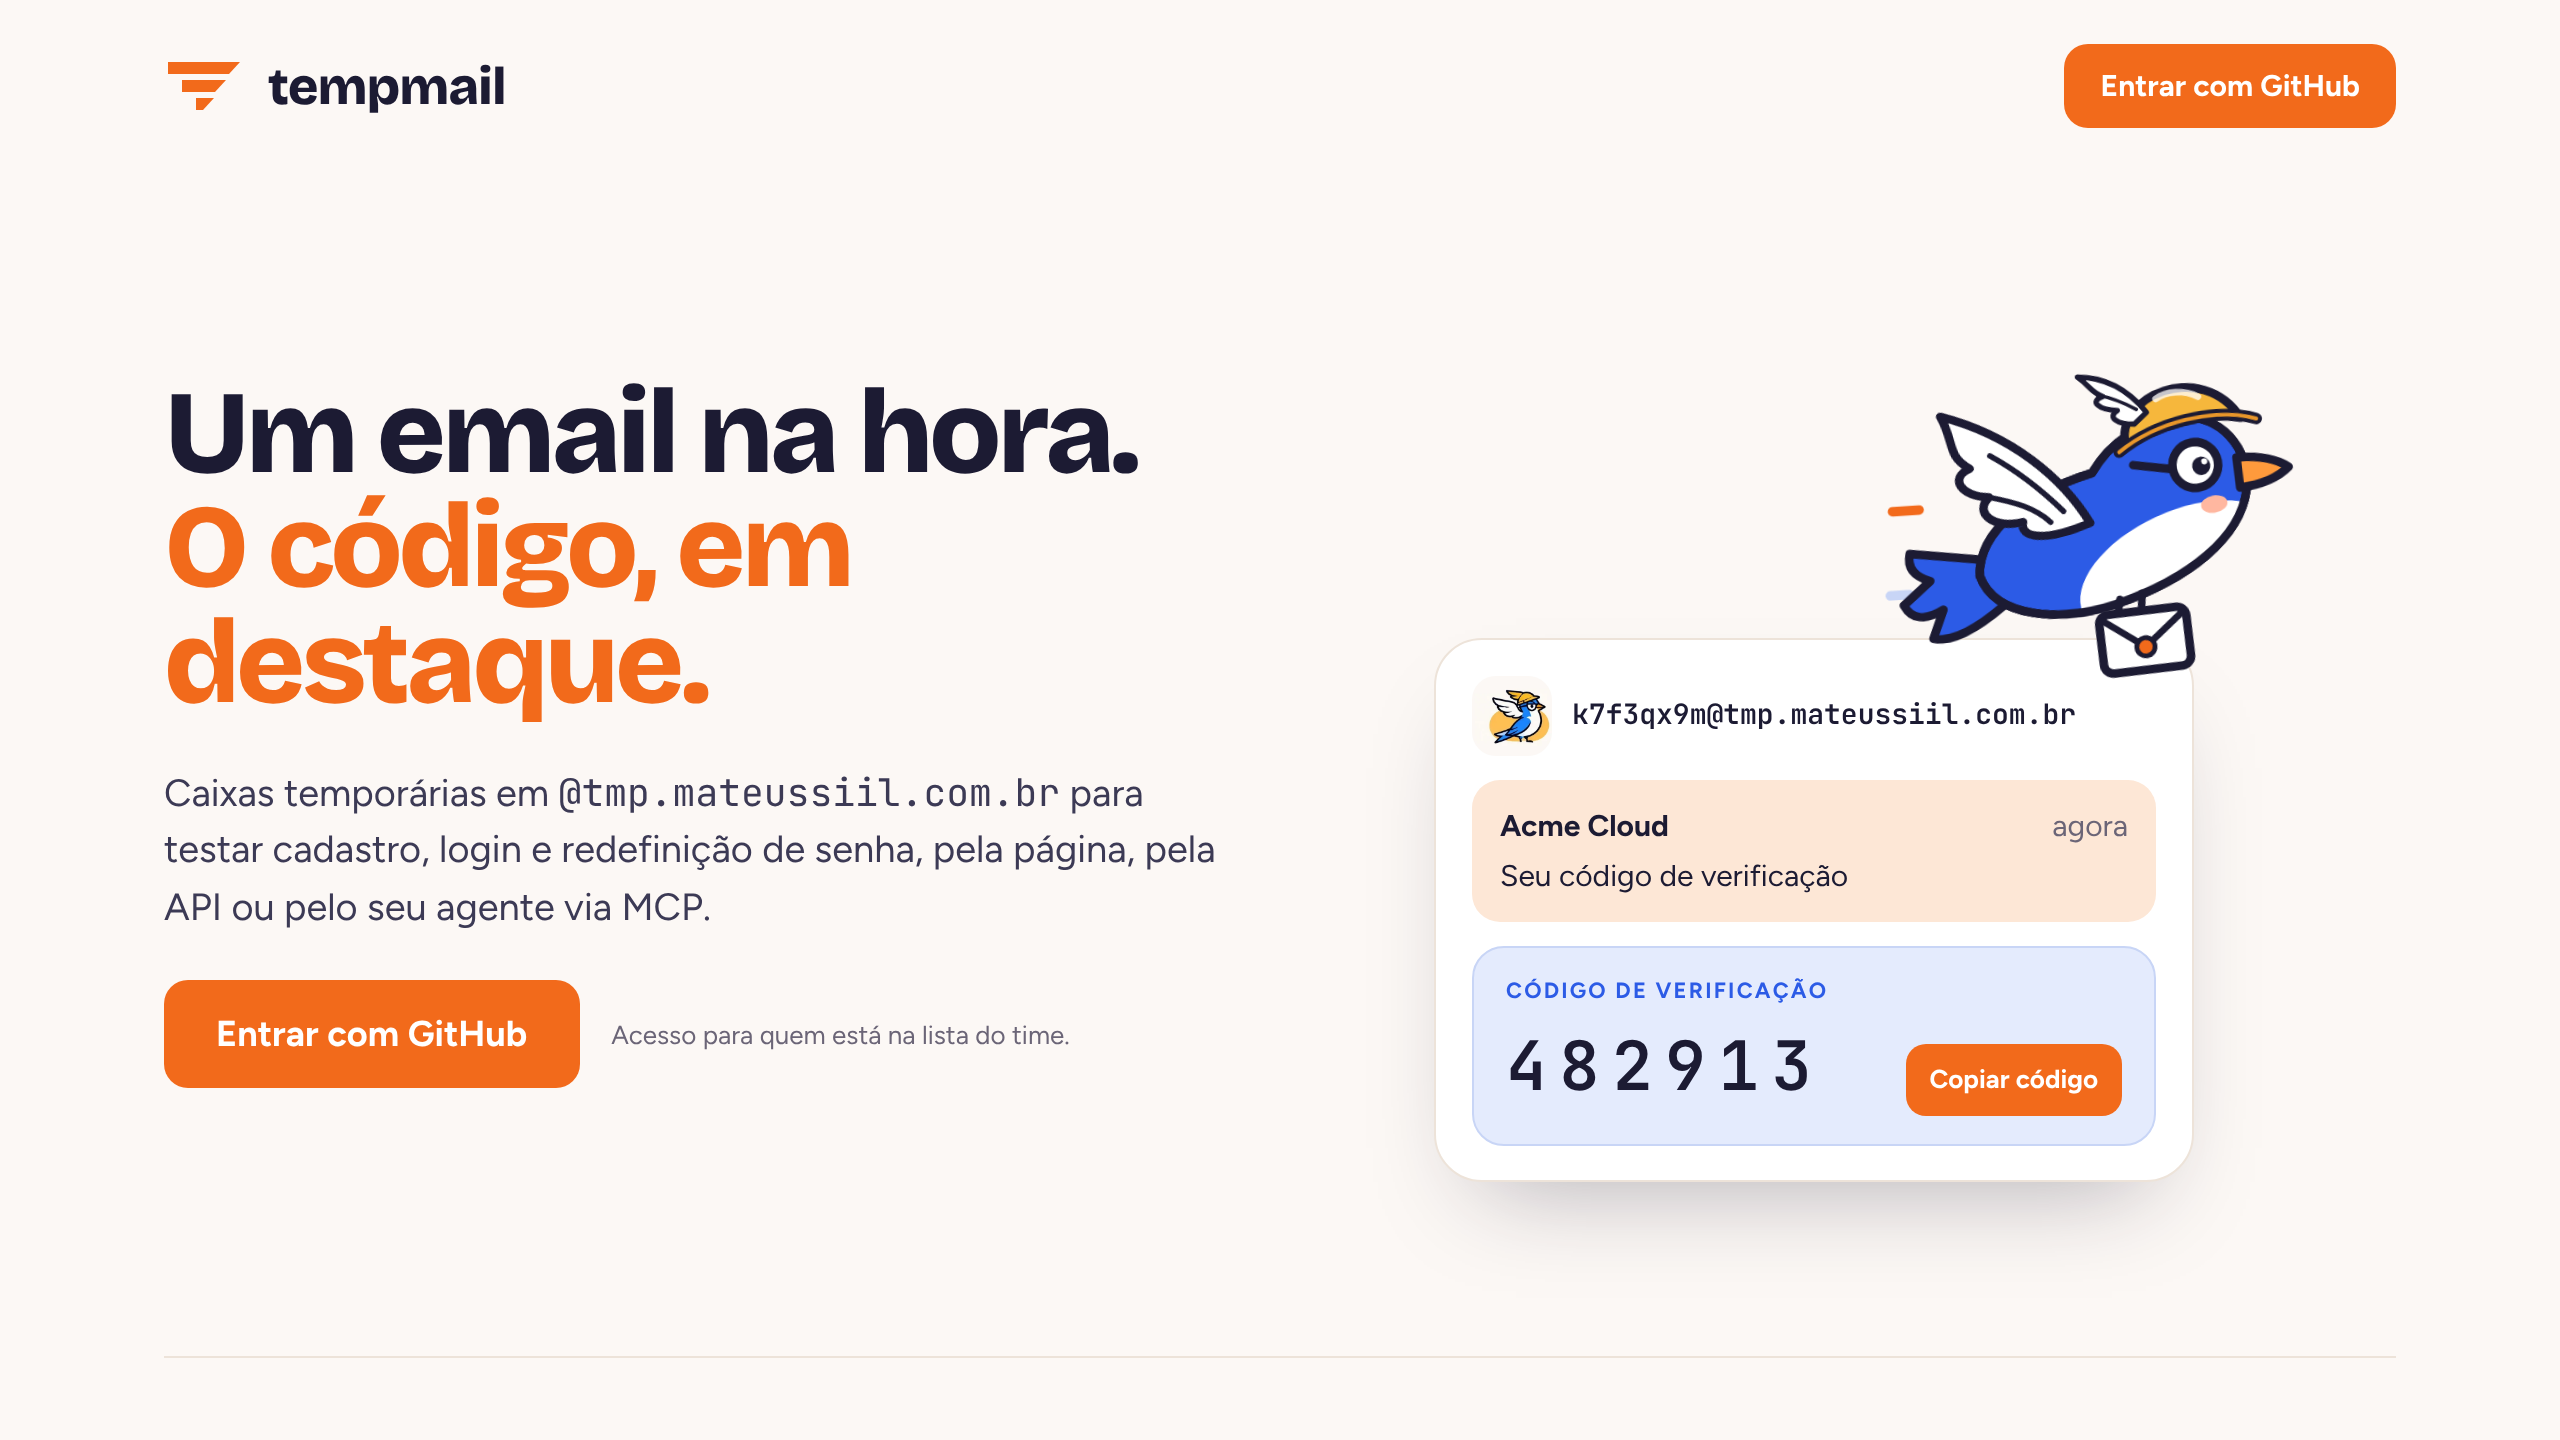
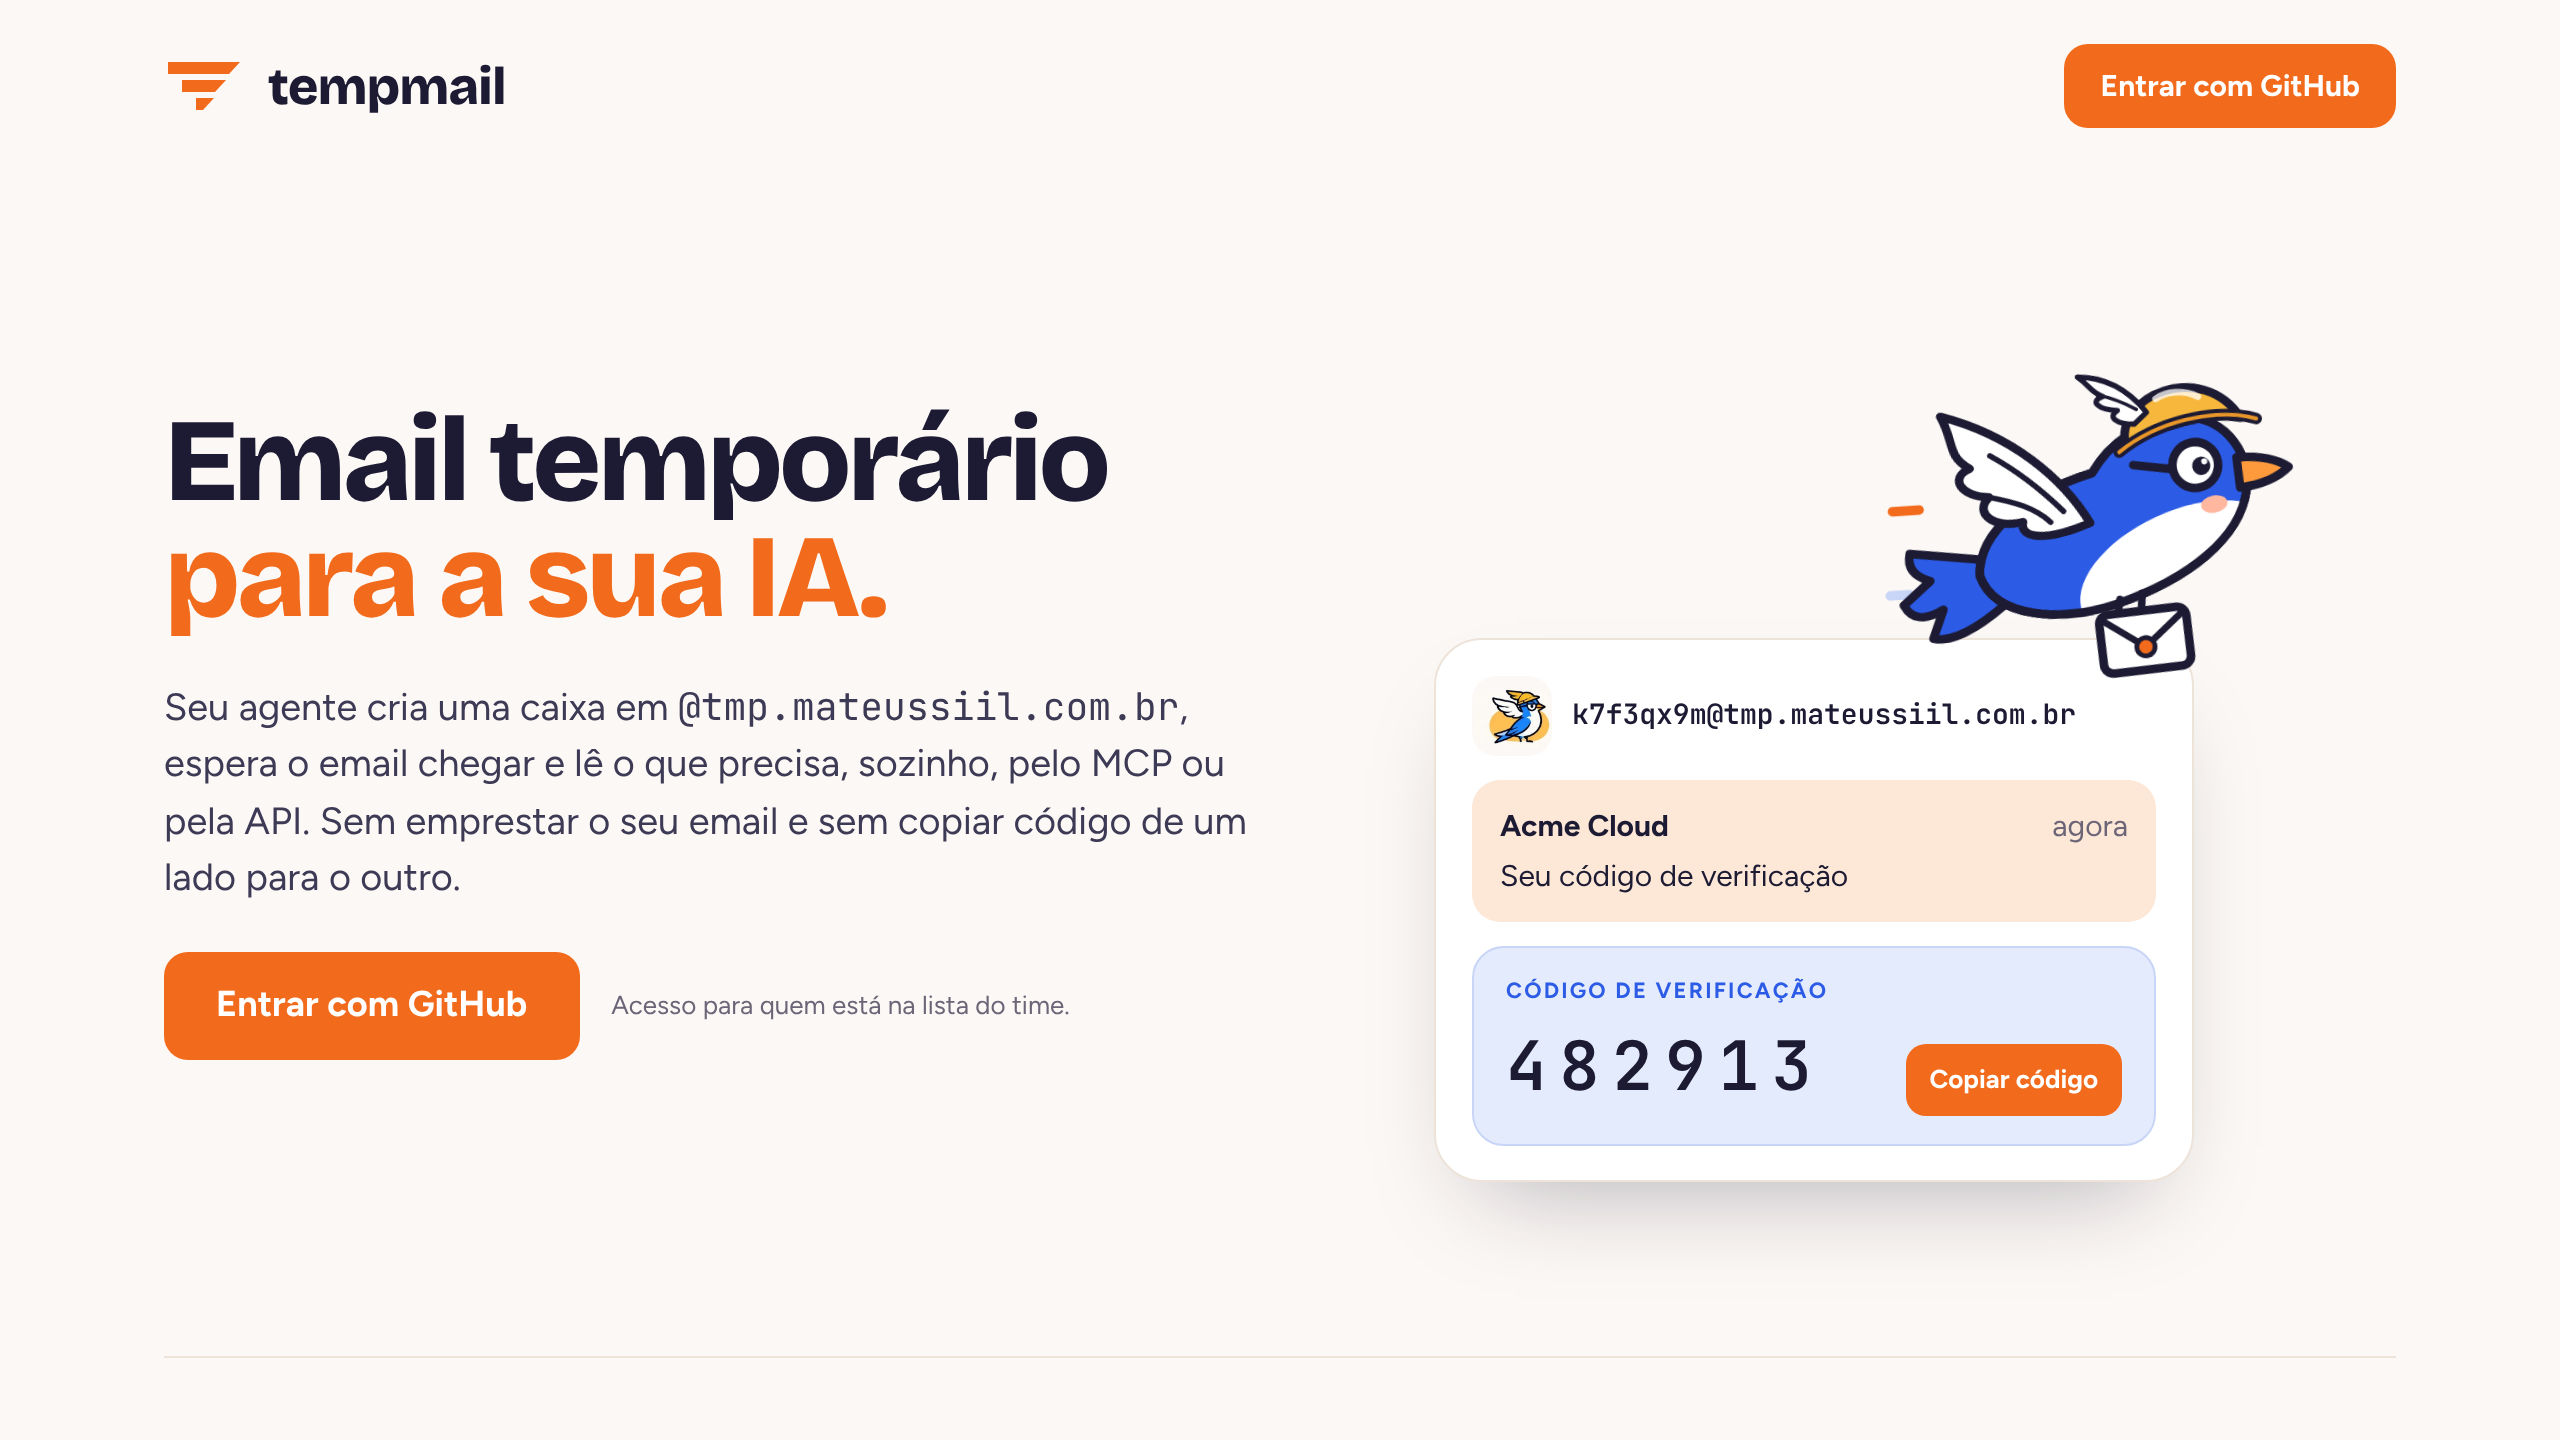
Landing com a IA no centro: email temporário de fácil acesso para agentes
- Hero: "Email temporário para a sua IA." O agente cria a caixa, espera o
  email e lê sozinho, pelo MCP ou pela API.
- "Como o agente usa": conectar (OAuth ou Chave de API), create_inbox,
  wait_for_email e extract_code.
- Cadastro, login e testes ponta a ponta viram casos de uso ("Para que a IA
  usa"), não a proposta.
- Descrição da página, README e CONTEXT com o mesmo posicionamento.

Claude-Session: https://claude.ai/code/session_013yhem54AWrN91AskNKcYQx

Changed region(s): [[0.0625, 0.25, 0.5, 0.7812], [0.25, 0.6875, 0.4062, 0.75]]

diff --git a/src/modules/membership/ui/LandingPage.tsx b/src/modules/membership/ui/LandingPage.tsx
@@ -16,6 +16,8 @@ type LandingPageProps = {
 
 /**
  * A página de quem ainda não entrou: o que o tempmail faz e a porta de entrada.
+ * A proposta é email temporário de fácil acesso para IA; cadastro, login e
+ * testes são usos disso, não o centro.
  * O acesso continua só para quem está na lista do time.
  */
 export function LandingPage({ mailDomain, ttlHours, maxActiveInboxes, mcpUrl, signInButton }: LandingPageProps) {
@@ -33,13 +35,14 @@ export function LandingPage({ mailDomain, ttlHours, maxActiveInboxes, mcpUrl, si
         <section className="landing-hero" aria-labelledby="landing-title">
           <div className="landing-hero-text">
             <h1 id="landing-title" className="landing-title">
-              <span className="landing-title-line">Um email na hora.</span>
+              <span className="landing-title-line">Email temporário</span>
               <br />
-              <span className="landing-title-accent">O código, em destaque.</span>
+              <span className="landing-title-accent">para a sua IA.</span>
             </h1>
             <p className="landing-lede">
-              Caixas temporárias em <span className="mono">@{mailDomain}</span> para testar cadastro, login e
-              redefinição de senha, pela página, pela API ou pelo seu agente via MCP.
+              Seu agente cria uma caixa em <span className="mono">@{mailDomain}</span>, espera o email chegar e
+              lê o que precisa, sozinho, pelo MCP ou pela API. Sem emprestar o seu email e sem copiar código de
+              um lado para o outro.
             </p>
             <div className="landing-cta">
               {signInButton}
@@ -47,7 +50,7 @@ export function LandingPage({ mailDomain, ttlHours, maxActiveInboxes, mcpUrl, si
             </div>
           </div>
 
-          <figure className="landing-demo" aria-label="Exemplo: um código de verificação chegando numa caixa">
+          <figure className="landing-demo" aria-label="Exemplo: um código de verificação chegando na caixa do agente">
             <HermesWhistle />
             <div className="demo-card">
               <div className="demo-address">
@@ -74,20 +77,28 @@ export function LandingPage({ mailDomain, ttlHours, maxActiveInboxes, mcpUrl, si
 
         <section className="landing-section" aria-labelledby="como-funciona">
           <h2 id="como-funciona" className="landing-h2">
-            Como funciona
+            Como o agente usa
           </h2>
           <ol className="landing-steps">
             <li>
-              <strong>Crie uma caixa</strong>
-              <span>Com nome escolhido, como <span className="mono">teste-pix</span>, ou aleatório.</span>
+              <strong>Conecte uma vez</strong>
+              <span>
+                O claude.ai entra por OAuth. Claude Code, Codex, Cursor e outros clientes MCP usam uma Chave de API.
+              </span>
             </li>
             <li>
-              <strong>Use o endereço</strong>
-              <span>No cadastro, no login ou no fluxo que você está testando.</span>
+              <strong>Ele cria a caixa</strong>
+              <span>
+                <span className="mono">create_inbox</span> devolve um endereço na hora, com nome escolhido ou
+                aleatório.
+              </span>
             </li>
             <li>
-              <strong>Copie o código</strong>
-              <span>O email aparece em segundos, com o código de verificação separado do resto.</span>
+              <strong>Ele espera e lê</strong>
+              <span>
+                <span className="mono">wait_for_email</span> segura até o email chegar, e{" "}
+                <span className="mono">extract_code</span> separa o código do resto.
+              </span>
             </li>
           </ol>
         </section>
@@ -95,15 +106,15 @@ export function LandingPage({ mailDomain, ttlHours, maxActiveInboxes, mcpUrl, si
         <section className="landing-section landing-agents" aria-labelledby="para-agentes">
           <div>
             <h2 id="para-agentes" className="landing-h2">
-              Para scripts e agentes
+              Conecte em um minuto
             </h2>
             <p>
-              Tudo o que a página faz também está na API REST e no servidor MCP. Um agente cria a caixa, faz o
-              cadastro e espera o código sozinho, sem você copiar nada.
+              Um comando e o seu agente ganha as ferramentas de email. Ele cria a caixa, usa o endereço e espera a
+              resposta sem você no meio.
             </p>
             <p className="muted small">
-              Cada pessoa cria as suas Chaves de API depois de entrar. Claude Code, Codex, Cursor e outros clientes
-              MCP têm o passo a passo pronto. O claude.ai conecta por OAuth.
+              Cada pessoa cria as suas Chaves de API depois de entrar, com o passo a passo de cada cliente. Tudo o que
+              o MCP faz também está na API REST, para scripts e testes.
             </p>
           </div>
           <pre className="landing-code" aria-label="Exemplo de uso com o Claude Code">
@@ -120,6 +131,27 @@ export function LandingPage({ mailDomain, ttlHours, maxActiveInboxes, mcpUrl, si
               {"\n"}extract_code    → <span className="code-accent">482913</span>
             </code>
           </pre>
+        </section>
+
+        <section className="landing-section" aria-labelledby="usos">
+          <h2 id="usos" className="landing-h2">
+            Para que a IA usa
+          </h2>
+          <dl className="landing-rules">
+            <div>
+              <dt>Cadastros e logins</dt>
+              <dd>O agente se cadastra num serviço e confirma o código ou o link de acesso sem pedir ajuda.</dd>
+            </div>
+            <div>
+              <dt>Testes ponta a ponta</dt>
+              <dd>Cada execução ganha um endereço novo. O teste espera o email e segue o fluxo.</dd>
+            </div>
+            <div>
+              <dt>Qualquer fluxo com email</dt>
+              <dd>Convites, confirmações, recibos e anexos: o agente recebe e lê o conteúdo.</dd>
+            </div>
+          </dl>
+          <p className="muted small">E quando for você, a página mostra as mesmas caixas, com o código em destaque.</p>
         </section>
 
         <section className="landing-section" aria-labelledby="mensageiros">

diff --git a/src/modules/membership/ui/LandingPage.test.tsx b/src/modules/membership/ui/LandingPage.test.tsx
@@ -18,7 +18,7 @@ describe("LandingPage", () => {
   it("apresenta o produto e oferece entrar no topo, no início e no fim", () => {
     renderLanding();
 
-    expect(screen.getByRole("heading", { level: 1 })).toHaveTextContent("Um email na hora.O código, em destaque.");
+    expect(screen.getByRole("heading", { level: 1 })).toHaveTextContent("Email temporáriopara a sua IA.");
     expect(screen.getAllByRole("button", { name: "Entrar com GitHub" })).toHaveLength(3);
     expect(screen.getByText(/está na lista, peça a quem administra/)).toBeInTheDocument();
   });
@@ -30,6 +30,15 @@ describe("LandingPage", () => {
     expect(screen.getByText("24 h de prazo")).toBeInTheDocument();
     expect(screen.getByText("Até 20 caixas ativas")).toBeInTheDocument();
     expect(screen.getByLabelText("Exemplo de uso com o Claude Code")).toHaveTextContent("https://tempmail.exemplo.test/api/mcp");
+  });
+
+  it("põe o agente no centro e trata cadastro, login e testes como usos", () => {
+    renderLanding();
+
+    expect(screen.getByRole("heading", { name: "Como o agente usa" })).toBeInTheDocument();
+    const usos = screen.getByRole("heading", { name: "Para que a IA usa" }).closest("section")!;
+    expect(within(usos).getByText("Cadastros e logins")).toBeInTheDocument();
+    expect(within(usos).getByText("Testes ponta a ponta")).toBeInTheDocument();
   });
 
   it("deixa ouvir o Hermes passar, sem tocar nada sozinho", () => {

diff --git a/src/app/layout.tsx b/src/app/layout.tsx
@@ -10,7 +10,7 @@ const mono = JetBrains_Mono({ subsets: ["latin"], weight: ["400", "600"], variab
 
 export const metadata: Metadata = {
   title: "tempmail",
-  description: "Emails temporários para o time",
+  description: "Email temporário de fácil acesso para IA, pelo MCP e pela API",
 };
 
 export const viewport: Viewport = {

diff --git a/README.md b/README.md
@@ -1,6 +1,6 @@
 # Tempmail
 
-Email temporário para uso pessoal e do time: recebe emails catch-all em `tmp.mateussiil.com.br`, com página web, API REST e servidor MCP remoto.
+Email temporário de fácil acesso para IA: um agente cria uma caixa em `tmp.mateussiil.com.br`, espera o email chegar e lê o conteúdo sozinho, pelo servidor MCP remoto ou pela API REST. Cadastro, login e testes ponta a ponta são usos disso. A página web mostra as mesmas caixas para as pessoas do time.
 
 O planejamento está no mapa: [[Mapa] Tempmail: email temporário com página, API e MCP](https://github.com/mateussiil/tempmail/issues/1). A linguagem do domínio está em [`CONTEXT.md`](./CONTEXT.md).
 

diff --git a/CONTEXT.md b/CONTEXT.md
@@ -1,6 +1,6 @@
 # Tempmail
 
-Caixas de email temporárias para uso pessoal e do time, acessíveis pela página, pela API e pelo MCP.
+Caixas de email temporárias de fácil acesso para IA: agentes criam, esperam e leem Mensagens pelo MCP e pela API; a página serve às pessoas do time. Cadastro, login e testes são usos, não o centro.
 
 ## Language
 
